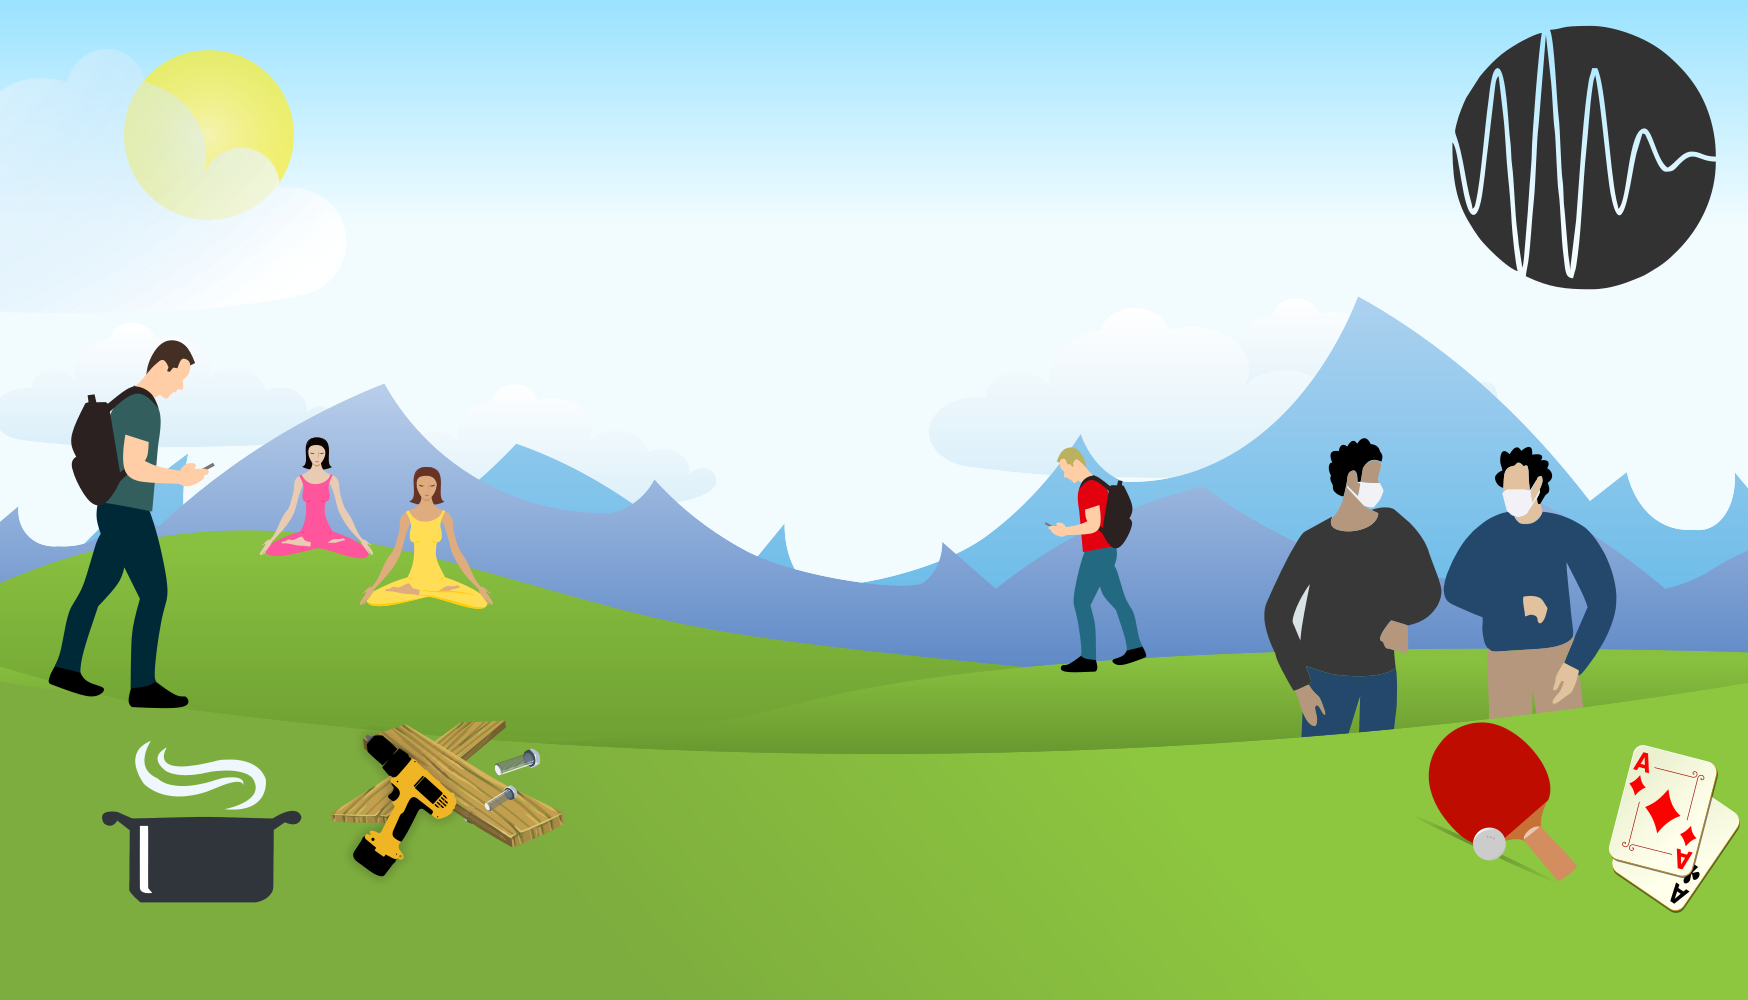
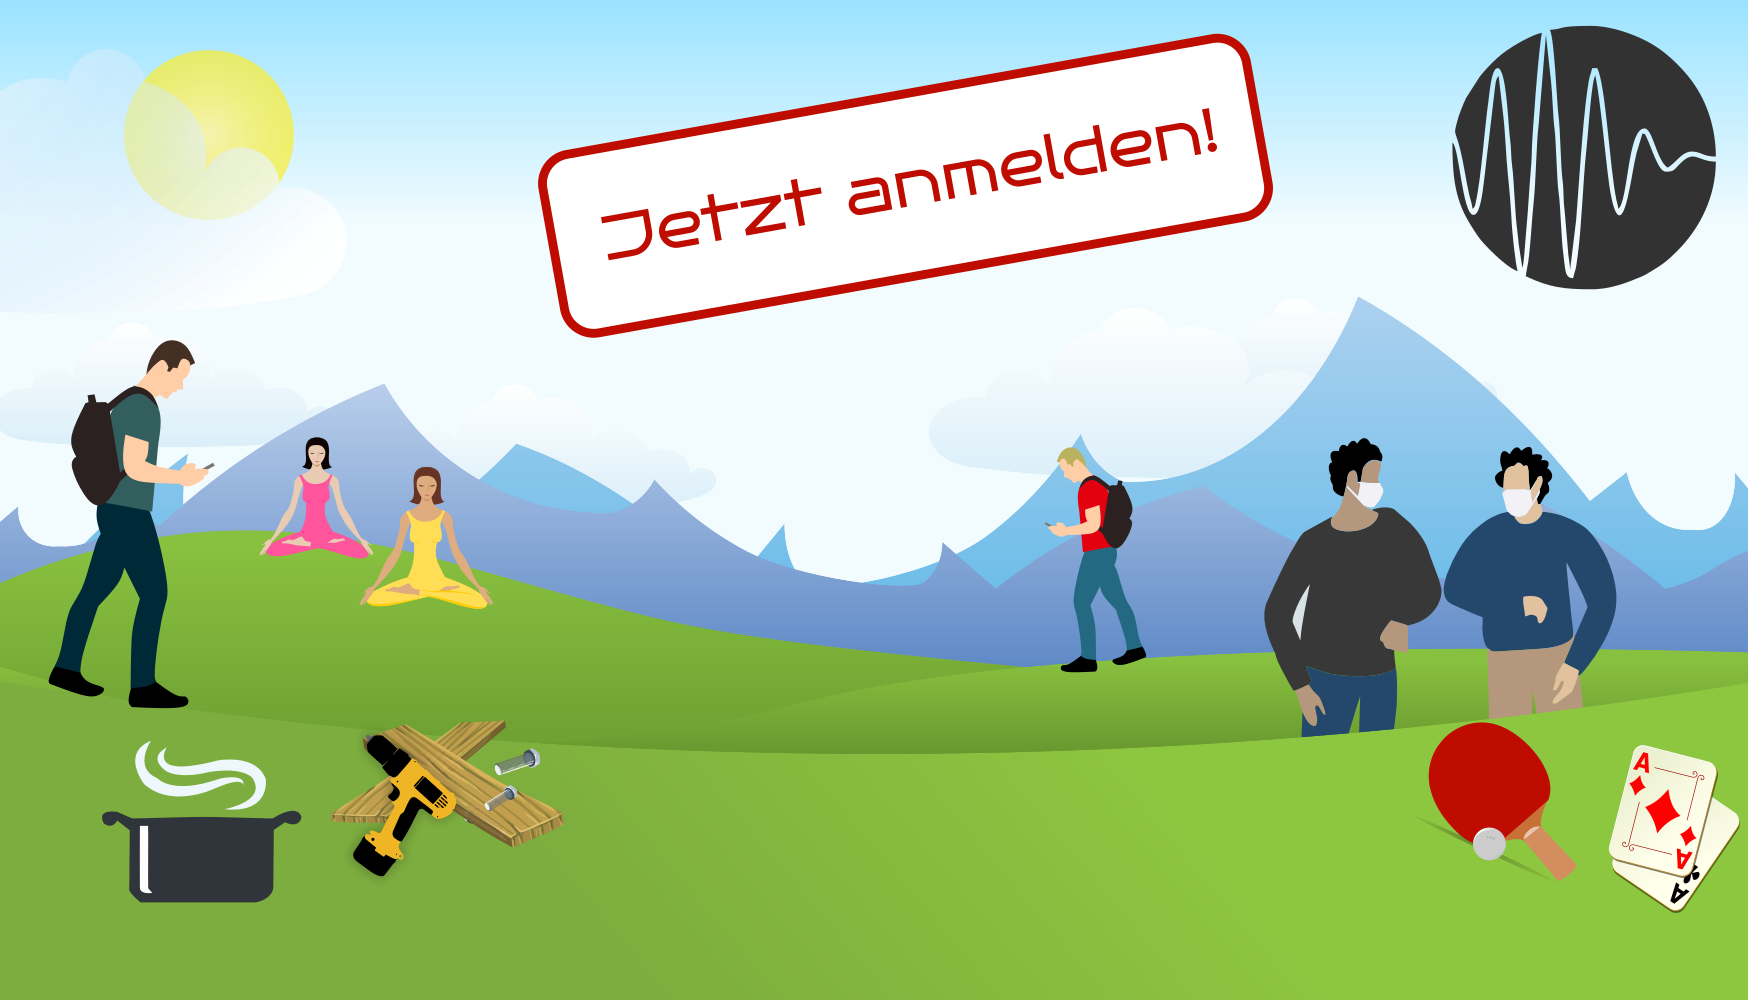
Update SoAk teaser post
Modify the picture of the post and update the program of the week.

Changed region(s): [[0.3089, 0.031, 0.7414, 0.341]]

diff --git a/_posts/2021/2021-08-12-soak-werbung.md b/_posts/2021/2021-08-12-soak-werbung.md
@@ -9,12 +9,31 @@ author: Feline, Karl
 Unsere jährliche Sommerakademie findet dieses Jahr vom 23. - 27. August 2021 statt und
 richtet sich an Studierende und Alumni an der Fakultät Physik.
 
-Für eine Woche haben wir ein abwechslungsreiches und coronakonformes Programm aus Online- und
-Präsenzveranstaltungen geplant. Einige Highlights sind z.B. ein gemeinsames Kochen,
-Spieleabende, Yogasessions, ein Tischtennisturnier und und und.
-Alle Veranstaltungen sind wie immer kostenlos.
+Folgende Programmpunkte erwarten euch:
+- Remote Alumni-Abend
+- Bauprojekt
+- Remote Kochen
+- Wandern und Geocaching
+- Remote Vortragsabend
+- Tischtennisturnier
+- Remote Spieleabend
+- Remote Yoga
+- Abschlussgrillen
 
-Interesse? Weitere Infos uns Anmeldung unter:
+An den jeweiligen Tagen werden wir euch morgens via Discord mit den täglichen
+Programmpunkten versorgen.
+
+Wann?
+: 23.08. - 27.08.
+
+Wo?
+: Discord, in Dortmund und Uni-Umgebung
+
+Wer?
+: Studierende und Alumni der Fakultät Physik an der TU Dortmund
+
+Interesse?
+: Jetzt anmelden unter:
 [registration.pep-dortmund.org/events/](https://registration.pep-dortmund.org/events/9/registration/)
 
 Bei Fragen, Ideen oder Anmerkungen wendet euch per Mail an
@@ -23,3 +42,4 @@ Bei Fragen, Ideen oder Anmerkungen wendet euch per Mail an
 Wir freuen uns auf euch!
 
 Das PeP et al SoAk Team.
+
